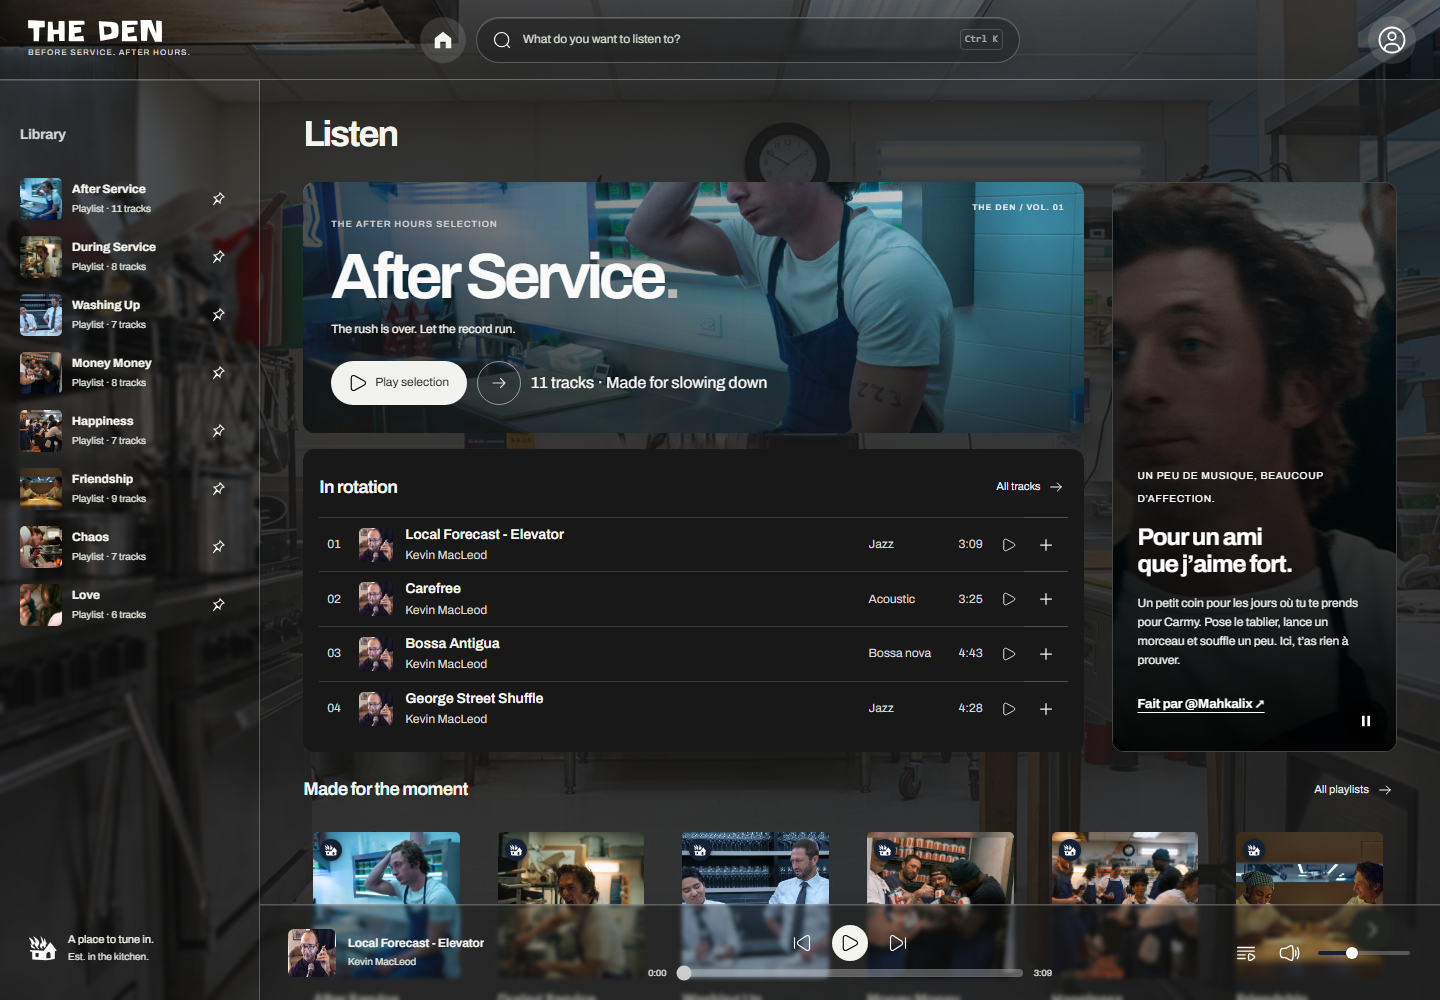
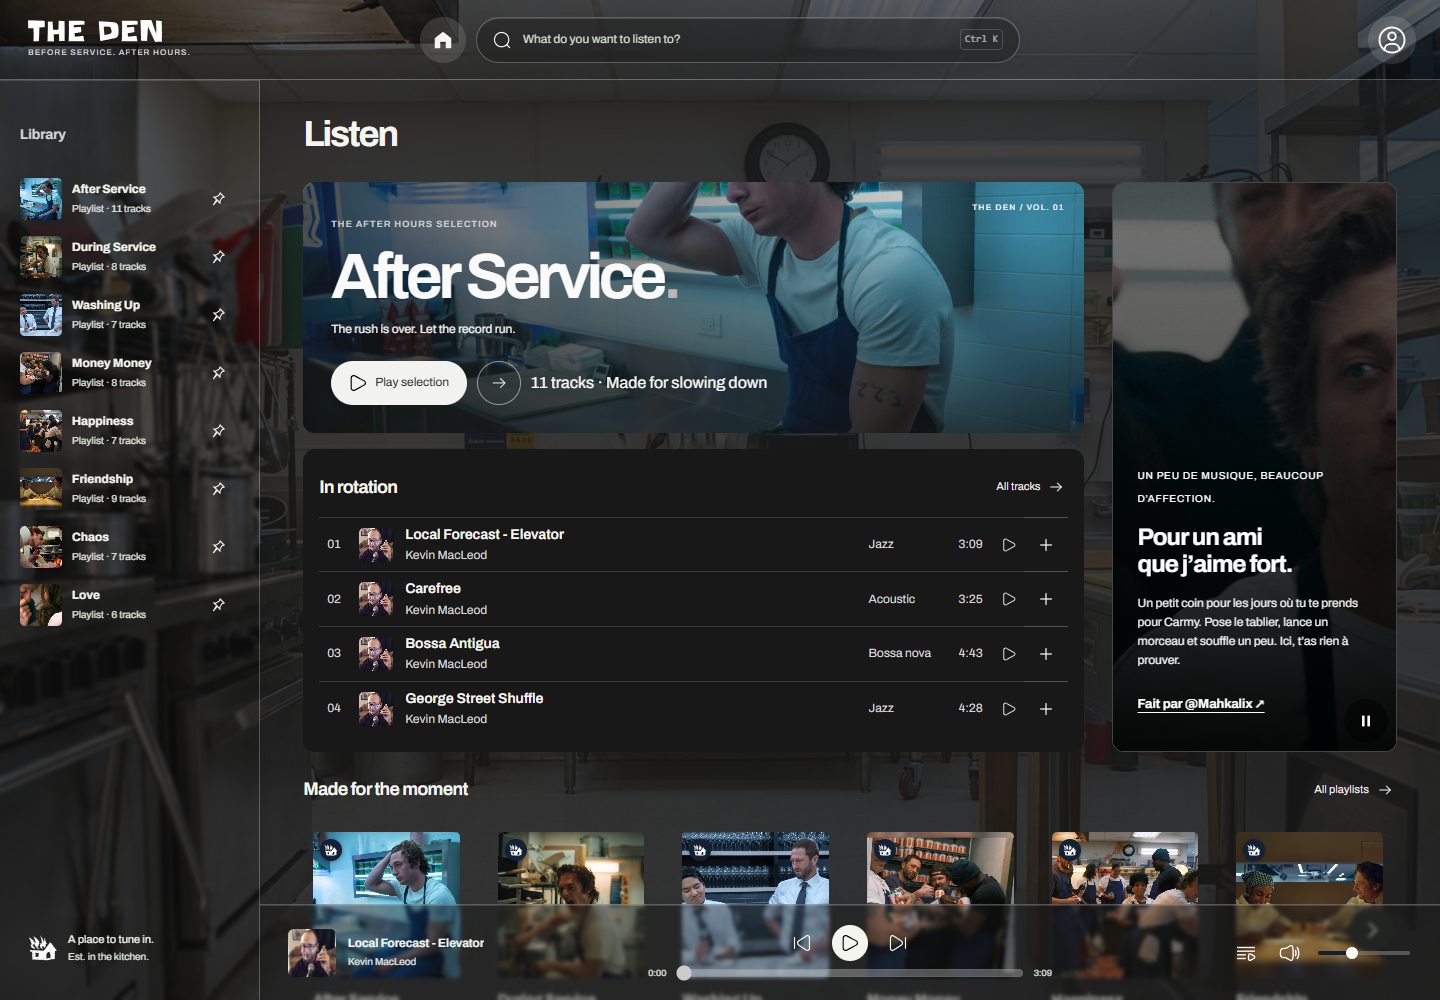
Affiche les aperçus complets dans des encarts uniformes

diff --git a/src/style/8_sections/_home.scss b/src/style/8_sections/_home.scss
@@ -110,6 +110,7 @@
 .c-design-card {
   position: relative;
   display: block;
+  aspect-ratio: 16 / 10;
   align-self: start;
   border-radius: 22px;
   color: var(--portfolio-text);
@@ -119,7 +120,9 @@
   img {
     display: block;
     width: 100%;
-    height: auto;
+    height: 100%;
+    object-fit: contain;
+    object-position: center;
     transition:
       filter var(--portfolio-transition),
       transform 650ms cubic-bezier(0.2, 0.8, 0.2, 1);
@@ -149,7 +152,6 @@
   &:hover img,
   &:focus-visible img {
     filter: saturate(1.2) contrast(1.05);
-    transform: scale(1.035);
   }
   &:hover span,
   &:focus-visible span {

diff --git a/src/style/8_sections/_project-detail.scss b/src/style/8_sections/_project-detail.scss
@@ -195,11 +195,11 @@
 
   &--wide figure > img { object-fit: cover; }
 
-  // All project slides share Trace//Zero’s desktop-sized frame.
+  // Keep a common frame while showing each screenshot in full.
   &--desktop &__viewport {
     width: min(100%, 1280px);
     height: auto;
-    aspect-ratio: 1763 / 831;
+    aspect-ratio: 16 / 10;
     margin-inline: auto;
     border-radius: 22px;
   }
@@ -221,7 +221,7 @@
     display: block;
     width: 100%;
     height: 100%;
-    object-fit: cover;
+    object-fit: contain;
     object-position: center;
     border-radius: inherit;
   }

diff --git a/src/data/projects.js b/src/data/projects.js
@@ -100,7 +100,7 @@ const webProjectOverrides = {
     tabIcon: "/assets/the-den-emblem.png",
     slides: ["/assets/the-den-player.png", "/assets/the-den-preview.png"],
     githubUrl: "https://github.com/Mahkalix/THEDEN",
-    siteUrl: "https://theden-thebear.vercel.app/",
+    siteUrl: "https://theden-thebear.vercel.app/player",
     tools: {
       "Next.js": "https://cdn.jsdelivr.net/gh/devicons/devicon/icons/nextjs/nextjs-original.svg",
       React: technologyIcons.React,
